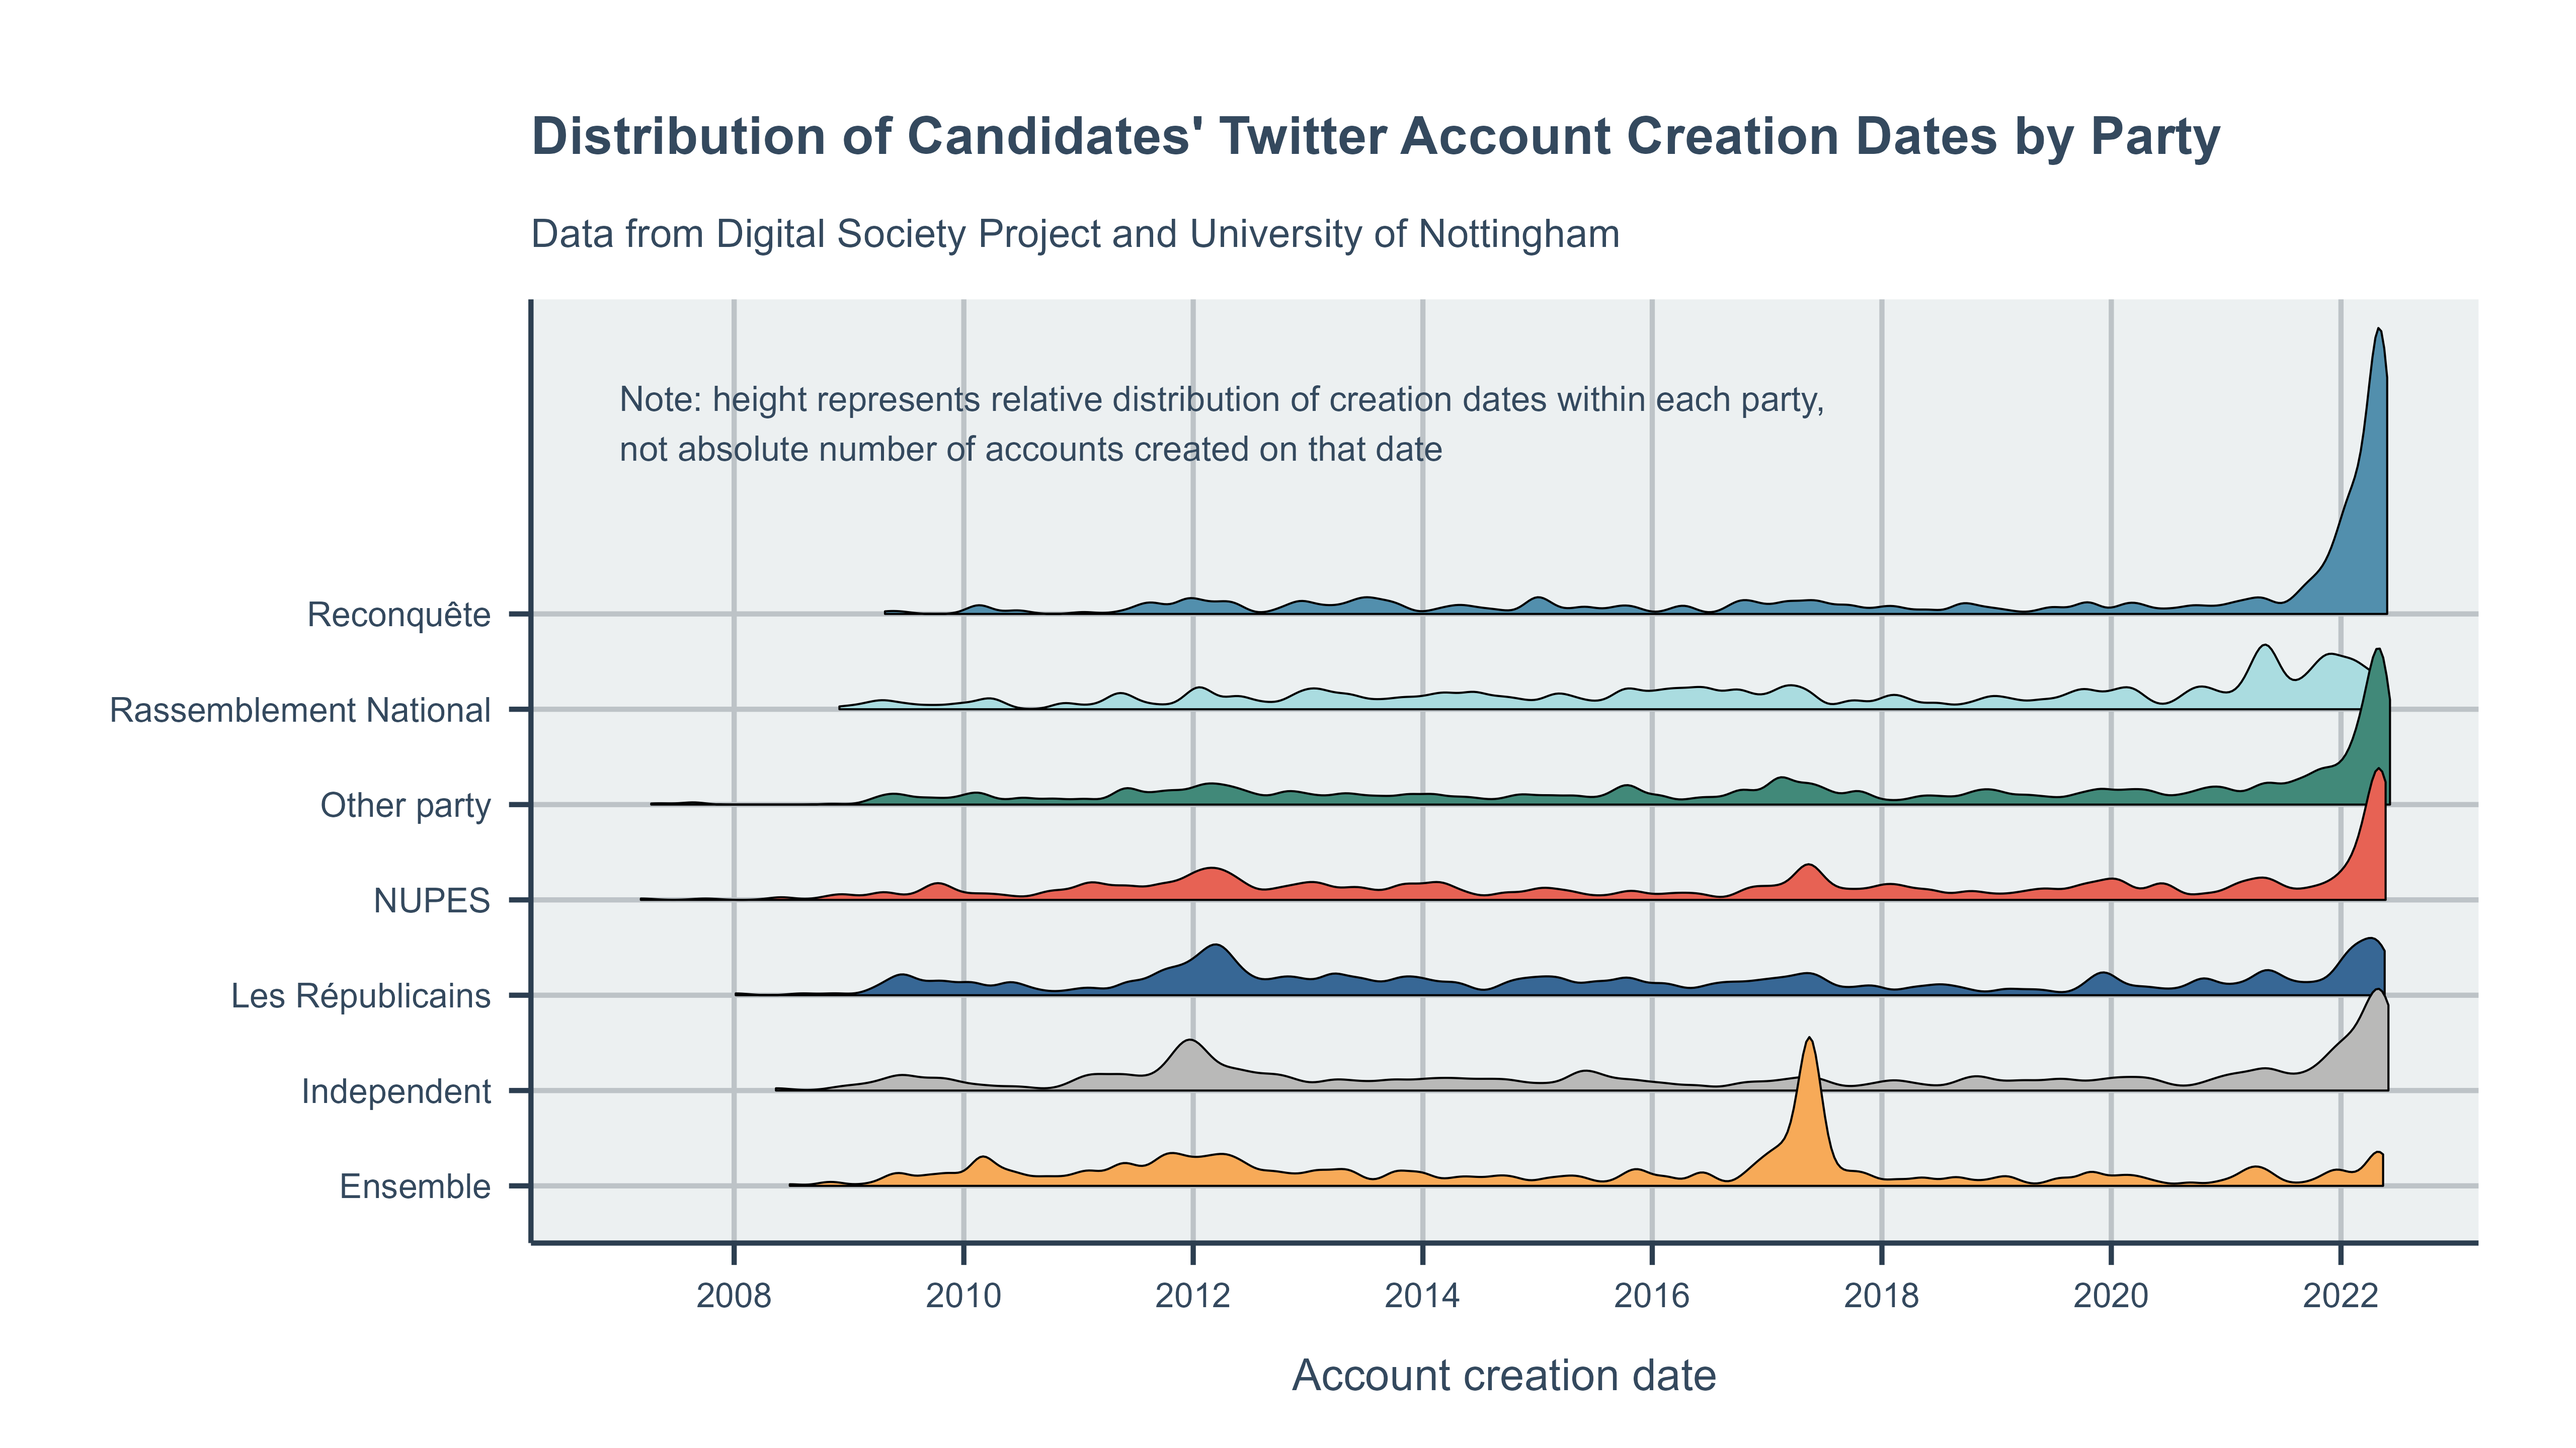
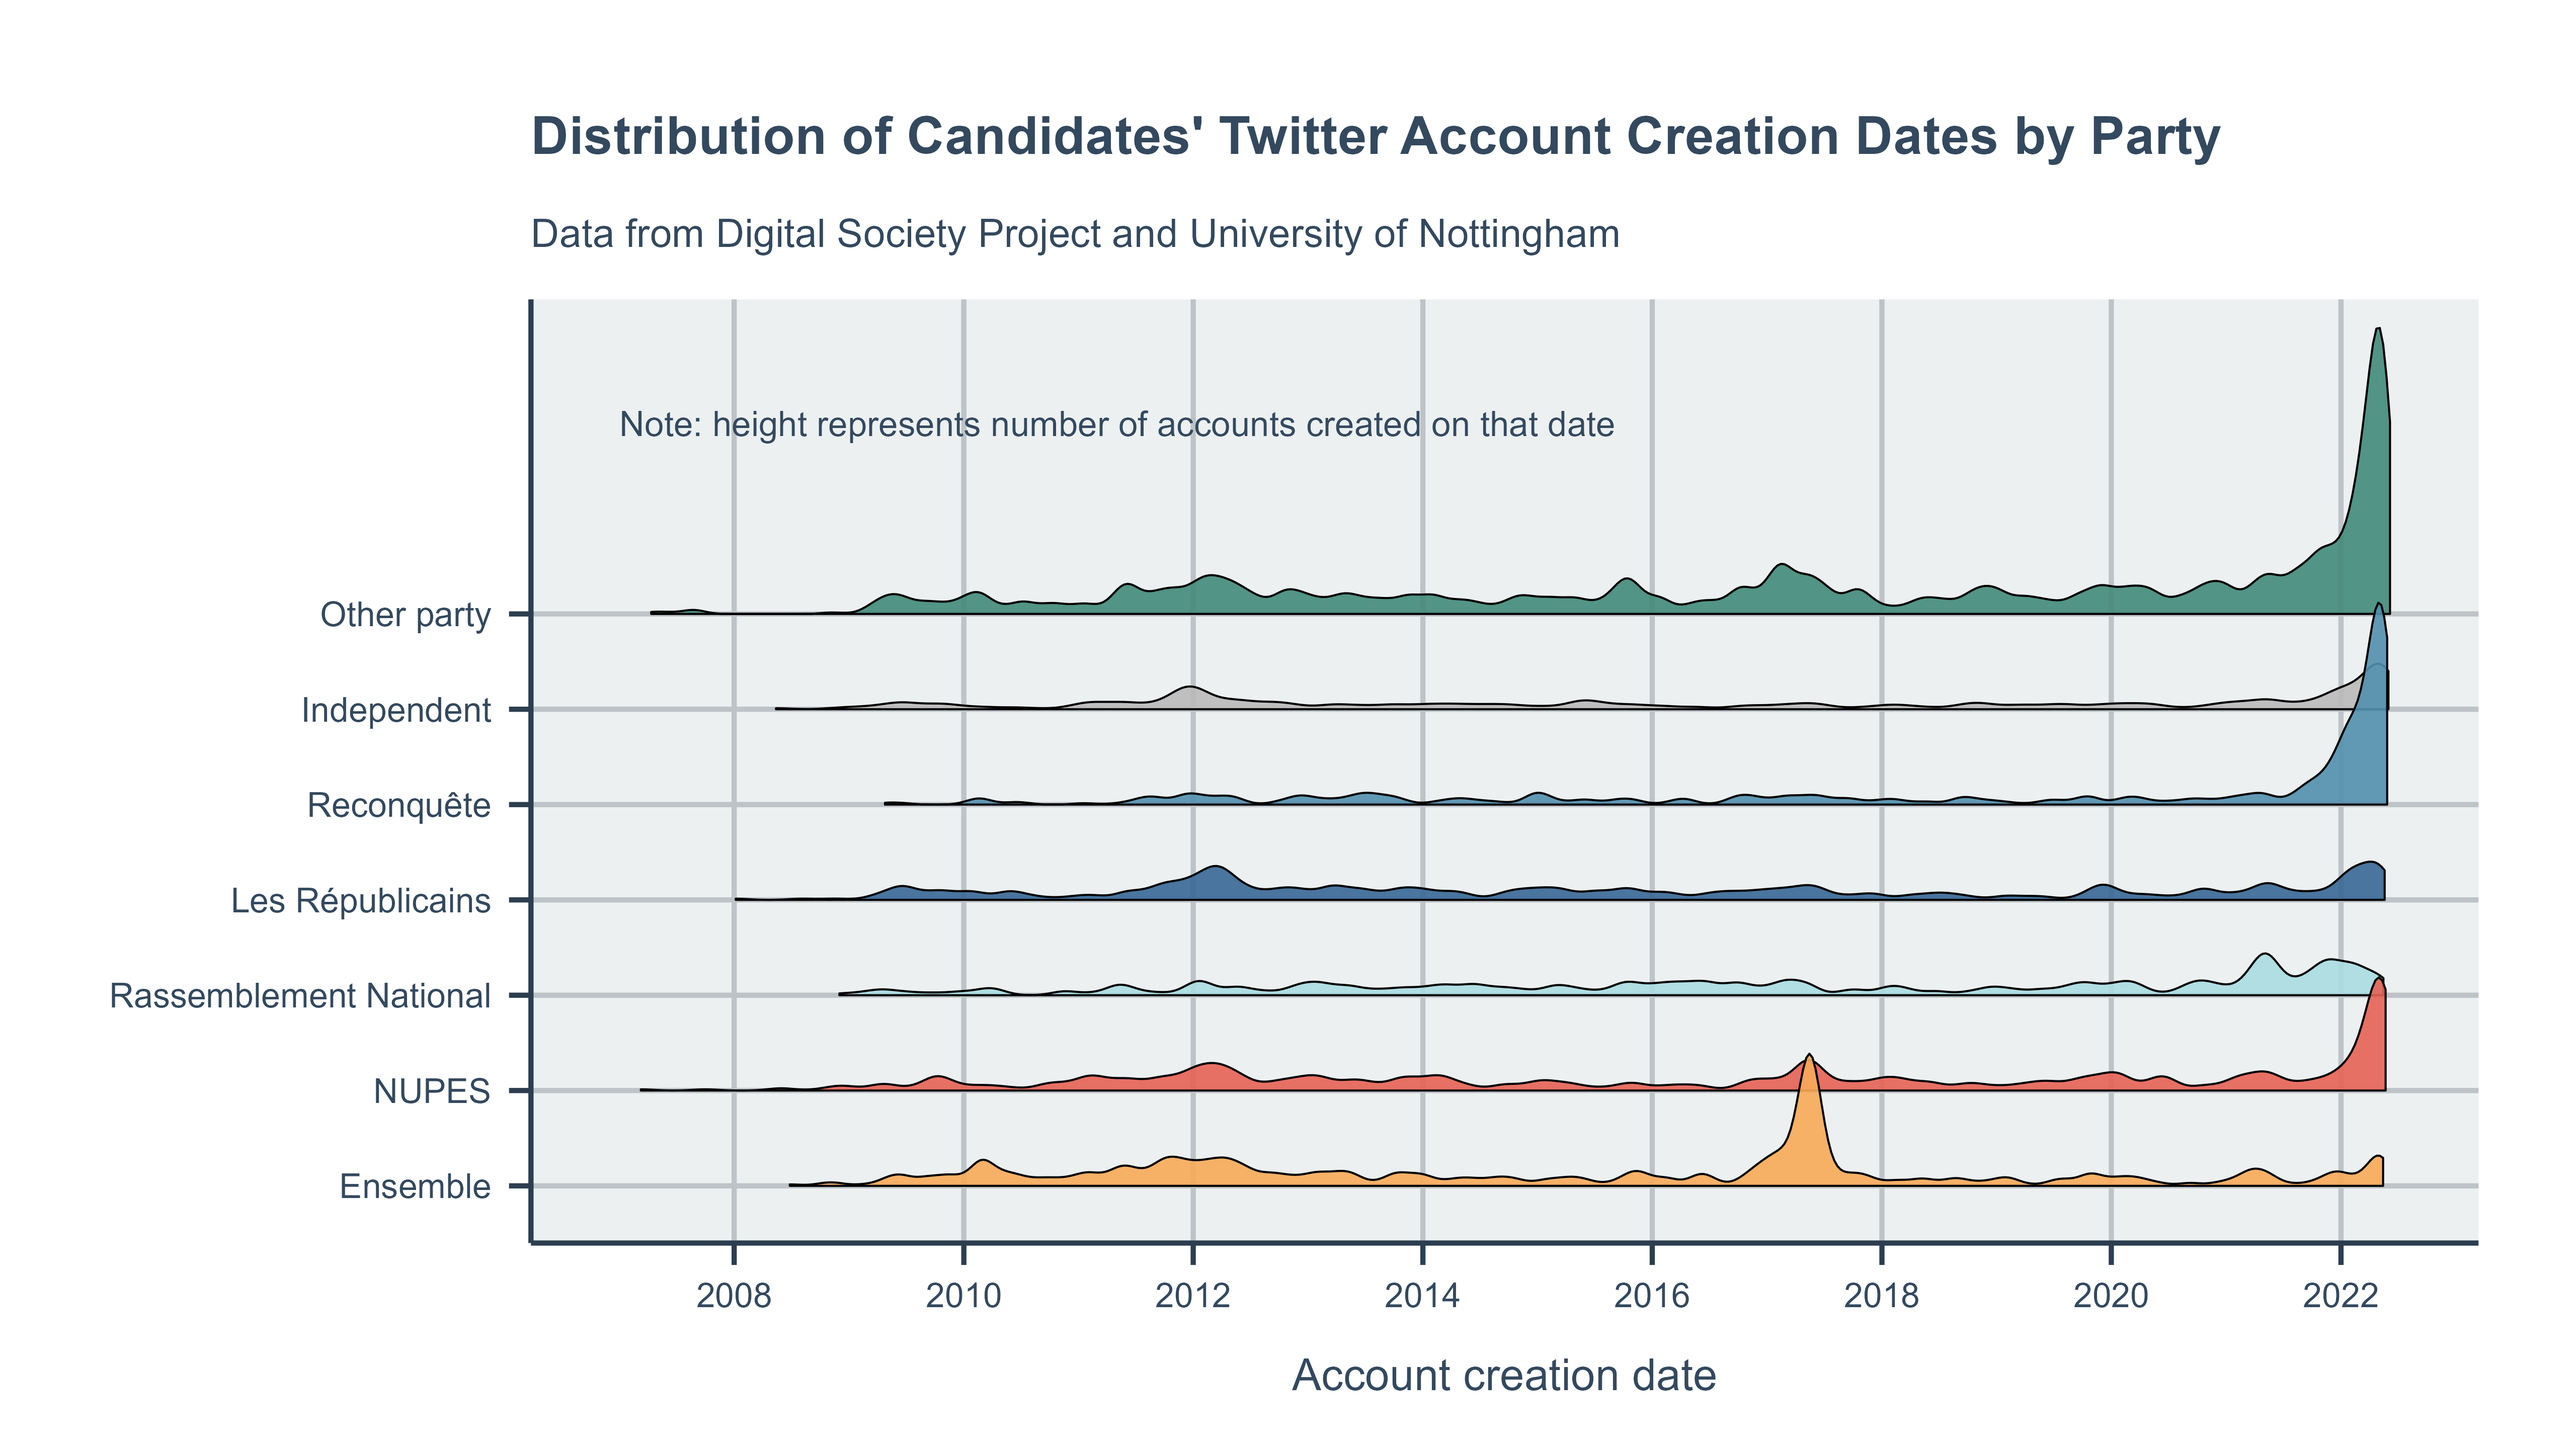
Update analysis of account creation dates

diff --git a/README.md b/README.md
@@ -13,5 +13,9 @@ None of the main Twitter data is in this repository. The code creates and analys
    - Extract hashtags used in Tweets: _extracting_hashtags.R_
    - Create TF-IDF metric for each candidate's hashtags: _calculating_hashtag_tfidf.R_
    - Merge Twitter metrics and demographic/political data on candidates: _merging_metrics_and_candidate_variables.R_
-- **Analysis:**
-   - Conduct basic exploratory analysis: _exploratory_analysis.R_
+- **Exploratory Analysis:**
+   - Conduct basic exploratory analysis of main variables: _exploratory_analysis.R_
+   - Analyse account creation dates: _account_recency_analysis.R_
+
+
+![example plot](https://raw.githubusercontent.com/lrowleyabel/French-Election-Tweet-Analysis/main/Analysis/Exploratory%20Analysis/Plots/account_creation_date_distribution_by_party.png)
